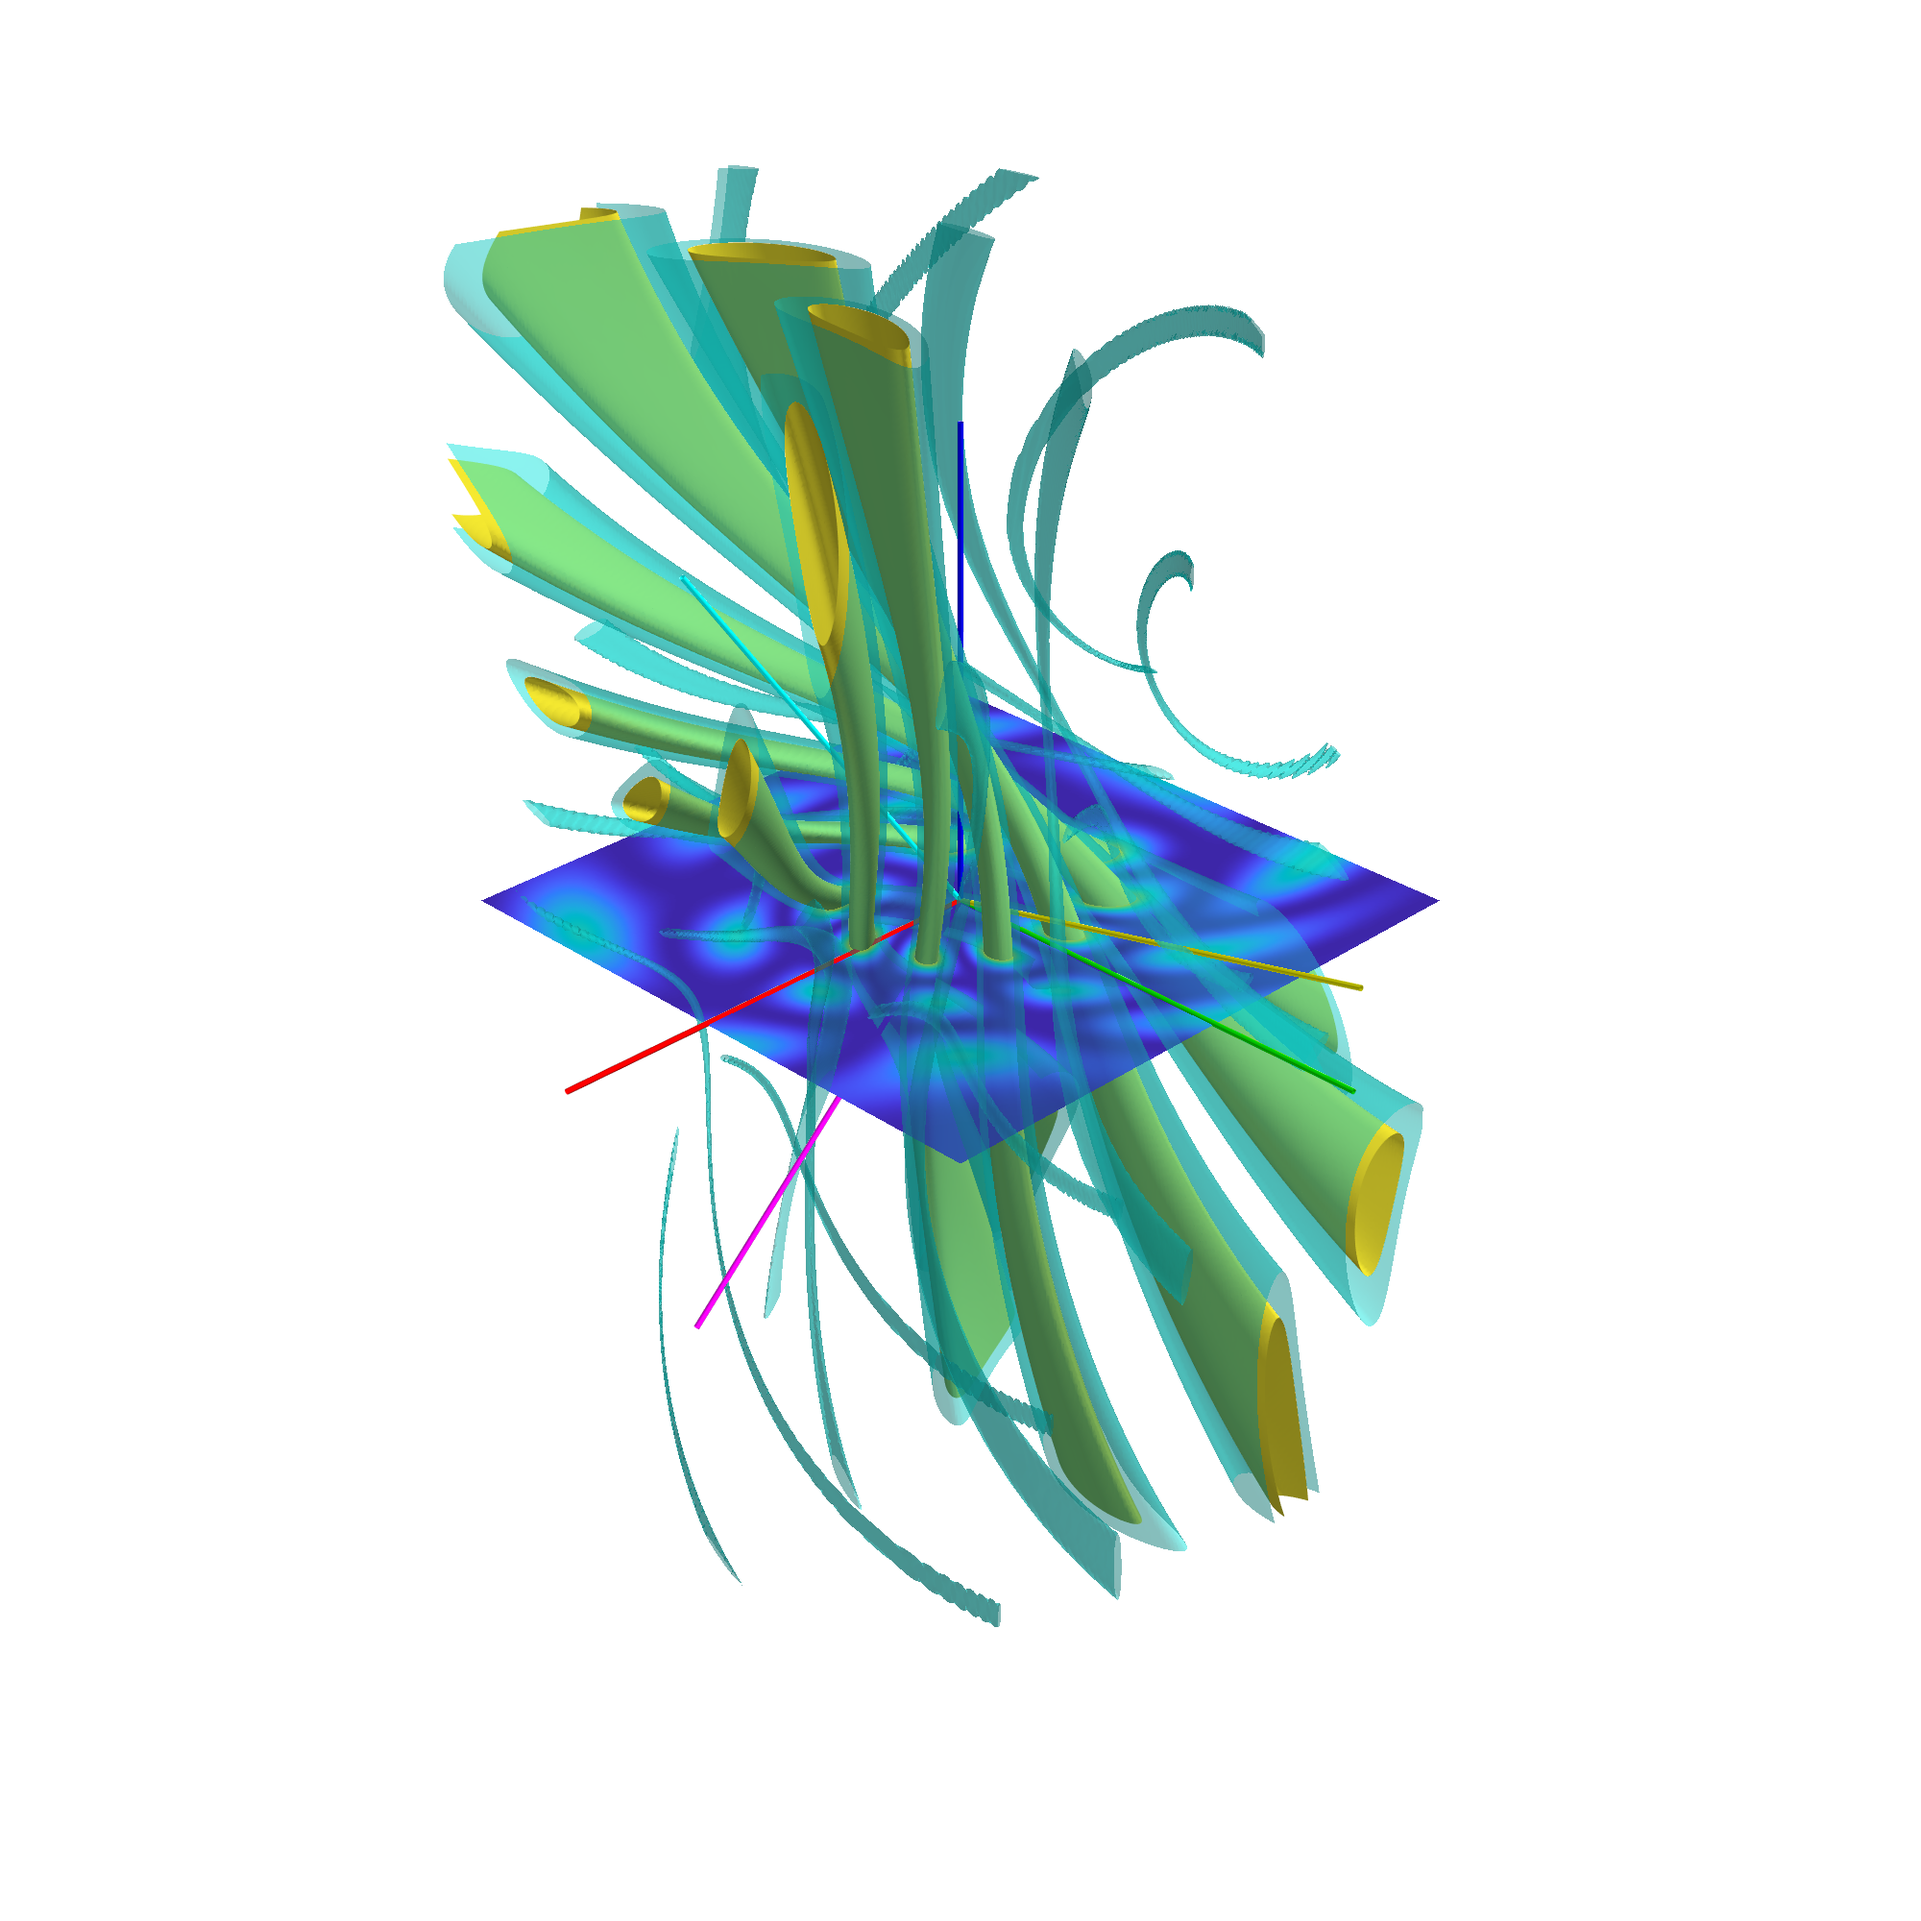
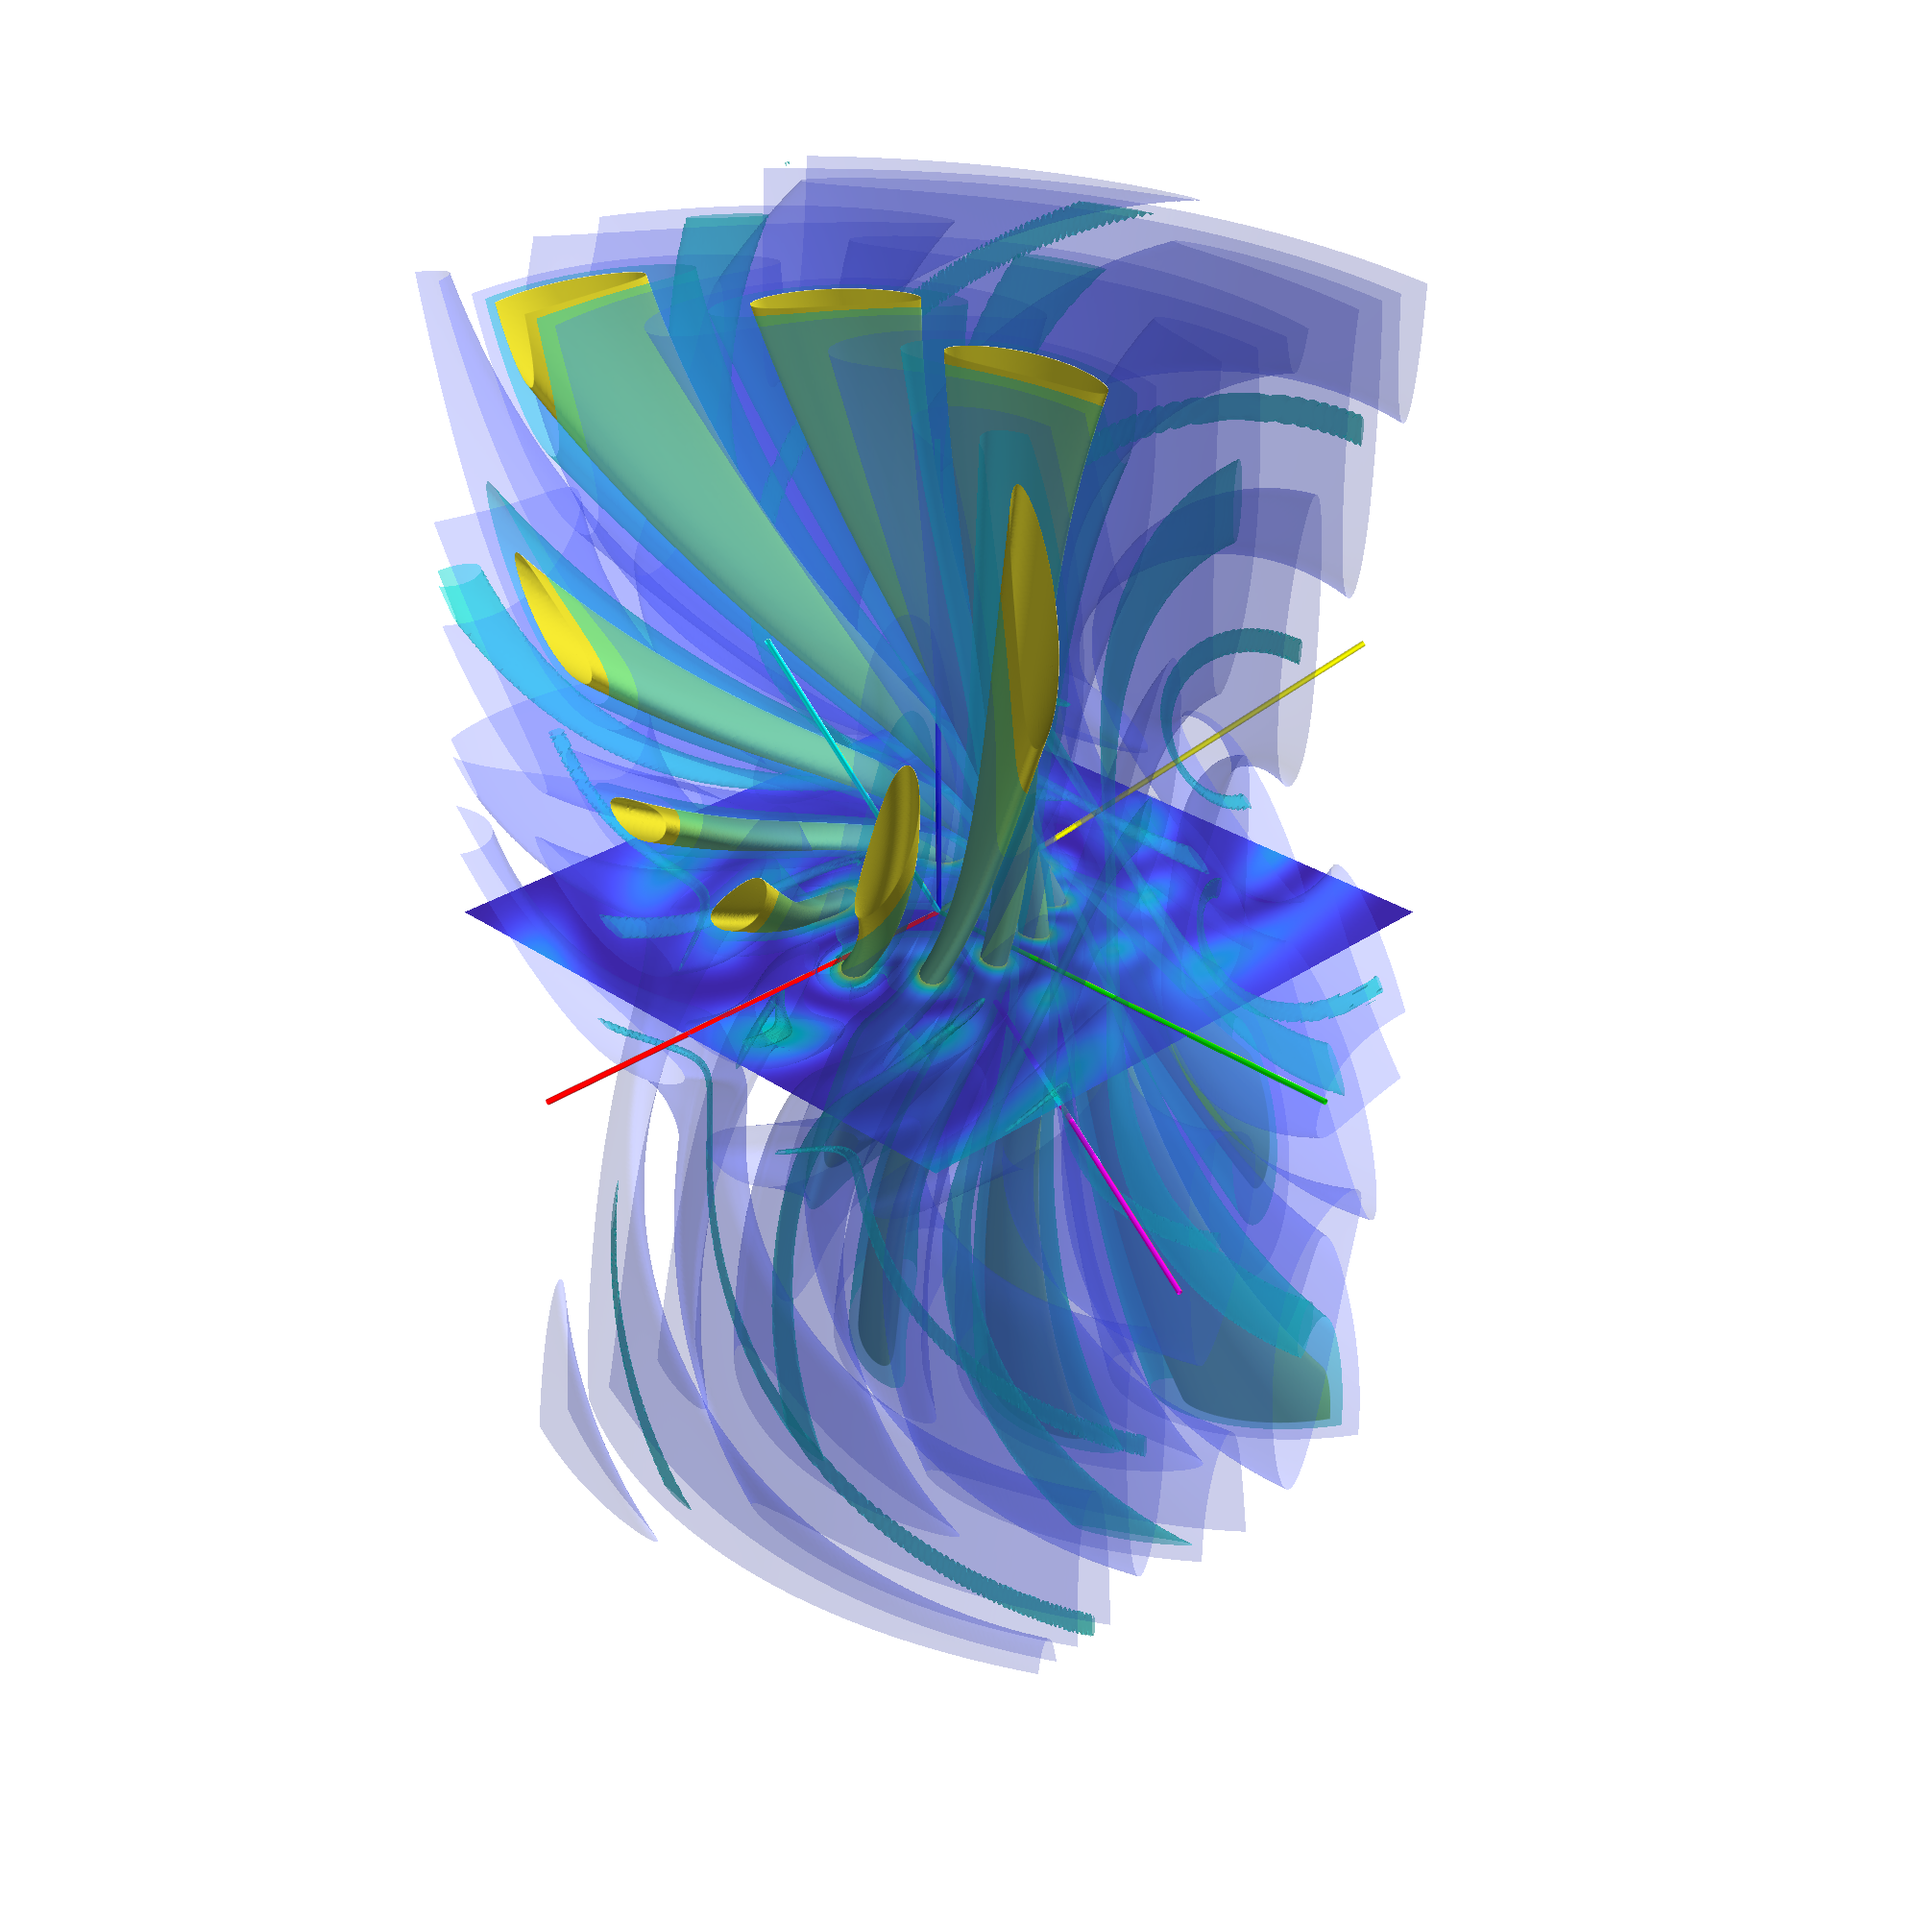
stuff

diff --git a/c-attempt/figure-generation/isosurface.py b/c-attempt/figure-generation/isosurface.py
@@ -34,32 +34,34 @@ TEM_MODE = GL
 
 def main() -> None:
     
-    # if TEM_MODE == GH:
+    if TEM_MODE == GH:
         
-    #     ghPlot()
+        ghPlot()
         
-    # else:
+    else:
             # if TEM_MODE == GH:
         
-    #     ghPlot()
+        glPlot()
         
     # else:
-        
-    #     glPlot()
-    #     glPlot()
+        # 
+        # glPlot()
+        # glPlot()
     
     pic_paths = glob.glob(os.path.join(path,'isosurfaces','*.png'))
     
     for pic_path in pic_paths:
         
-        img = cv2.imread(pic_path)
+        if 'new' not in pic_path:
         
-        img = img[10:1850,400:1600]
-        
-        cv2.imwrite(pic_path.split('.png')[0] + '_new.png', img)
-        
-        middle_idx = np.shape(img)
-        print(middle_idx)
+            img = cv2.imread(pic_path)
+            
+            img = img[10:1850,400:1600]
+            
+            cv2.imwrite(pic_path.split('.png')[0] + '_new.png', img)
+            
+            middle_idx = np.shape(img)
+            print(middle_idx)
         # cv2.imshow('test',img)
         # cv2.waitKey(0)
         
@@ -87,25 +89,20 @@ def glPlot() -> None:
 
     pm_w_0 = w_0 * 3.
 
-<<<<<<< HEAD
     x_samples = 300
     y_samples = 300
-=======
-    x_samples = 200
-    y_samples = 150
->>>>>>> 43de0cd09a69de1d6f57e0b65648bbaf7d210df0
     z_samples = 300
 
     off_nadir_angle_deg = 35
-    azimuth_deg = -15
+    azimuth_deg = 14
 
     # roll_linspace = np.linspace(0,90,300)
 
     # for roll_idx in range(len(roll_linspace)):
 
-    roll_deg = 20
+    roll_deg = 54
 
-    z_offset = 1. * wavelength
+    z_offset = 0. * wavelength
 
     x_linspace = np.linspace(-pm_w_0,pm_w_0,x_samples)
     y_linspace = np.linspace(-pm_w_0,pm_w_0,y_samples)
@@ -165,16 +162,23 @@ def glPlot() -> None:
     intensity = np.real(C_lg * E_field)**2
 
     max_intensity = np.max(intensity)
+    
     print(max_intensity)
-    intensity /= max_intensity
+    
+    first_thresh = 0.75 * max_intensity
+    second_thresh = 0.5 * max_intensity
+    third_thresh = 0.15 * max_intensity
+    
+    print(f'1st: {first_thresh}, 2nd: {second_thresh}, 3rd: {third_thresh}')
+    # intensity /=max_intensity
 
     fig = mlab.figure(size=(2000,2000), bgcolor=(1,1,1))
 
     src = mlab.pipeline.scalar_field(img_space_x_meshgrid * 1e9, img_space_y_meshgrid * 1e9, img_space_z_meshgrid * 1e9, intensity)
-    mlab.pipeline.iso_surface(src, contours=[0.75], opacity=1, color=parula(0.75)[:3])
-    mlab.pipeline.iso_surface(src, contours=[0.5], opacity=0.5, color=parula(0.5)[:3])
-    # mlab.pipeline.iso_surface(src, contours=[0.15], opacity=0.25, color=parula(0.15)[:3])
-
+    mlab.pipeline.iso_surface(src, contours=[first_thresh], opacity=1, color=parula(0.75)[:3])
+    mlab.pipeline.iso_surface(src, contours=[second_thresh], opacity=0.5, color=parula(0.5)[:3])
+    mlab.pipeline.iso_surface(src, contours=[third_thresh], opacity=0.25, color=parula(0.15)[:3])
+    
     cam_az = 45
     cam_el = 30
 
@@ -334,6 +338,8 @@ def ghPlot() -> None:
 
     m = 1
     n = 1
+    
+    norm_factor = pow(2.,-(n+m)/2.) * np.sqrt(2. / (np.pi * np.math.factorial(n) * np.math.factorial(m)))
 
     gh_m = genHermite(m)
     gh_n = genHermite(n)
@@ -359,7 +365,7 @@ def ghPlot() -> None:
     y_samples = 150
     z_samples = 300
 
-    off_nadir_angle_deg = 35
+    off_nadir_angle_deg = 0
     azimuth_deg = 0
 
     # roll_linspace = np.linspace(0,90,300)
@@ -368,7 +374,7 @@ def ghPlot() -> None:
 
     roll_deg = 0.
 
-    z_offset = 0.9 * w_0
+    z_offset = 0.0 * w_0
 
     x_linspace = np.linspace(-pm_w_0,pm_w_0,x_samples)
     y_linspace = np.linspace(-pm_w_0,pm_w_0,y_samples)
@@ -424,17 +430,23 @@ def ghPlot() -> None:
 
     exp_component = np.exp(-sum_xy_squares * (inv_w_squared + vergence_comp) - wavenumber_comp - gouy_phase_shift)
 
-    intensity = np.abs(scalar_comp * exp_component)**2
+    intensity = np.abs(norm_factor * scalar_comp * exp_component)**2
 
     max_intensity = np.max(intensity)
-    intensity /=max_intensity
+    
+    first_thresh = 0.75 * max_intensity
+    second_thresh = 0.5 * max_intensity
+    third_thresh = 0.15 * max_intensity
+    
+    print(f'1st: {first_thresh}, 2nd: {second_thresh}, 3rd: {third_thresh}')
+    # intensity /=max_intensity
 
     fig = mlab.figure(size=(2000,2000), bgcolor=(1,1,1))
 
     src = mlab.pipeline.scalar_field(img_space_x_meshgrid * 1e9, img_space_y_meshgrid * 1e9, img_space_z_meshgrid * 1e9, intensity)
-    mlab.pipeline.iso_surface(src, contours=[0.75], opacity=1, color=parula(0.75)[:3])
-    mlab.pipeline.iso_surface(src, contours=[0.5], opacity=0.5, color=parula(0.5)[:3])
-    mlab.pipeline.iso_surface(src, contours=[0.15], opacity=0.25, color=parula(0.15)[:3])
+    mlab.pipeline.iso_surface(src, contours=[first_thresh], opacity=1, color=parula(0.75)[:3])
+    mlab.pipeline.iso_surface(src, contours=[second_thresh], opacity=0.5, color=parula(0.5)[:3])
+    mlab.pipeline.iso_surface(src, contours=[third_thresh], opacity=0.25, color=parula(0.15)[:3])
 
     cam_az = 45
     cam_el = 30
@@ -491,7 +503,7 @@ def ghPlot() -> None:
 
     exp_component = np.exp(-sum_xy_squares * (inv_w_squared + vergence_comp) - wavenumber_comp - gouy_phase_shift)
 
-    intensity = np.abs(scalar_comp * exp_component)**2
+    intensity = np.abs(norm_factor * scalar_comp * exp_component)**2
 
     intensity /= max_intensity
 
